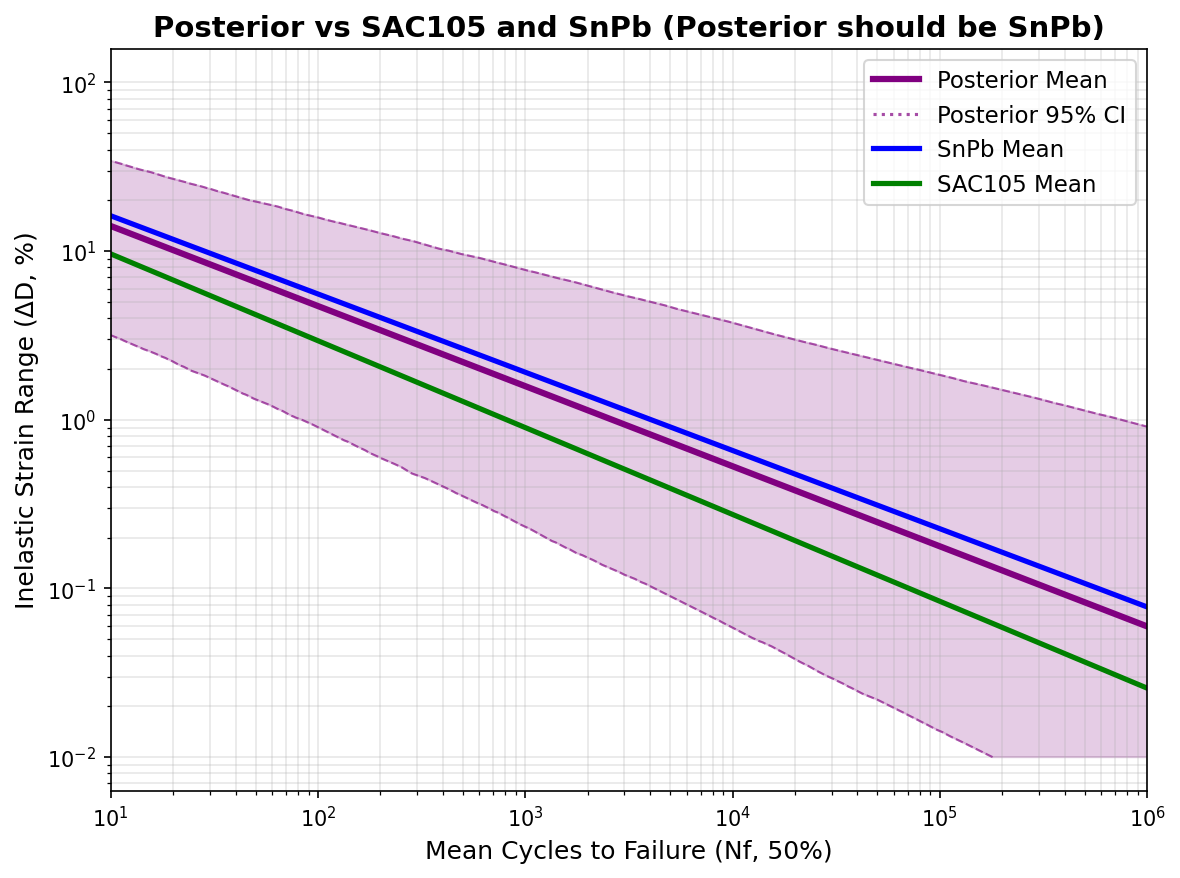
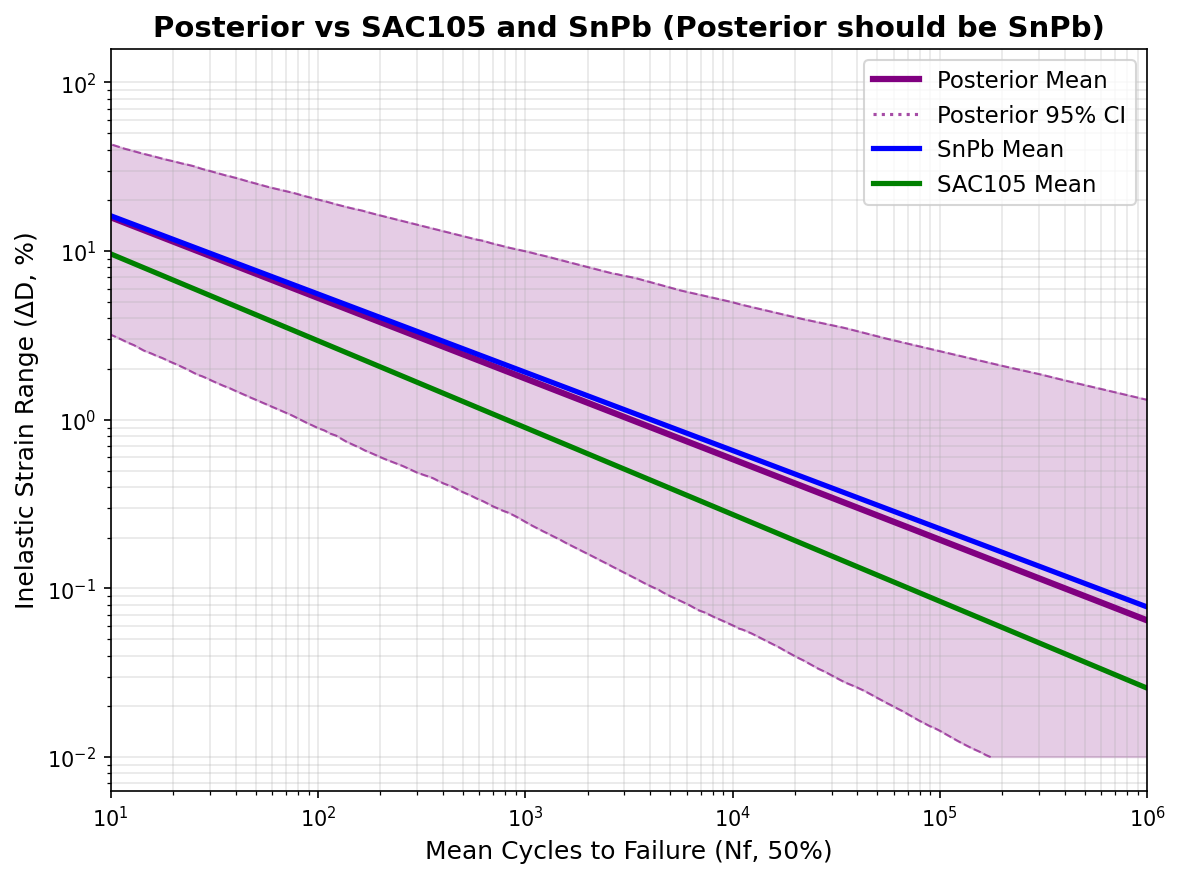
added more comments, cut out some unneeded clipping

diff --git a/demos/hybrid_bonding/thermomech.py b/demos/hybrid_bonding/thermomech.py
@@ -42,10 +42,8 @@ def hybrid_bonding_thermomech():
     ###########################################
 
     # Pairs of points [ % delta_D, Nf (means cycles to failure)]
-    # Tried to read of figure 10 from the paper but was guesstimating points
-    # delta_D_Nfdata = [[11, 10], [9, 10E2], [1.8,10E3], [0.6,10E4], [0.2,10E5], [0.07, 10E6]] #this was bad data
 
-    # Using data read of the SnPb plot I generated
+    # Using data read of the SnPb plot I generated (which matches fig 10 of paper)
     delta_D_Nfdata = [[0.16263, 10], [0.0581, 10E2], [0.01916,10E3], [0.00657,10E4], [0.00228,10E5], [0.00078, 10E6]]
 
     # Convert fabricated data to arrays
@@ -86,16 +84,21 @@ def hybrid_bonding_thermomech():
     print(f"  c_2:     loc={c_2_prior['loc']}, scale={c_2_prior['scale']}")
     print()
 
+    # caution: values are not clipped or restricted!
     def calc_engelmaier(e_f, c_0, c_1, c_2, t_0, T_sj, t_D, delta_D):
         m =  c_0 + c_1*T_sj + c_2*jnp.log(1 + t_0 / t_D) 
         N_f_50 = 0.5*jnp.power(2*e_f/delta_D, 1/m)
         return N_f_50
     
+    # needed to restrict values to prevent inf/nan from causing divergences
+    # want to constrain our variables to be in a reasonable range for them
     def calc_log_engelmaier(e_f, c_0, c_1, c_2, t_0, T_sj, t_D, delta_D):
-        e_f, delta_D = jnp.maximum(e_f, 0.001), jnp.maximum(delta_D, 1e-8)
-        m = jnp.maximum(c_0 + c_1*T_sj + c_2*jnp.log(1 + t_0/t_D), 0.1)
-        N_f = 0.5*jnp.power(jnp.maximum(2*e_f/delta_D, 1e-8), 1/m)
-        log_N_f = jnp.log(jnp.maximum(N_f, 1.0))
+        e_f, delta_D = jnp.maximum(e_f, 0.001), jnp.maximum(delta_D, 1e-8) # basically restricting to positive values (this realistically cannot be neg)
+        m = jnp.maximum(c_0 + c_1*T_sj + c_2*jnp.log(1 + t_0/t_D), 0.1) # normally m is around 0.5, should be solidly around there
+        # if i clip m at less that 0.1 this starts diverging a lot, i think a 0.1 clip is reasonable for this application
+        # if we want to produce reasonable results, I could also just clip each of the components of m
+        N_f = 0.5*jnp.power(jnp.maximum(2*e_f/delta_D, 1e-8), 1/m) # this is just to keep it positive
+        log_N_f = jnp.log(jnp.maximum(N_f, 1.0)) # prevent negative numbers
         return jnp.where(jnp.isfinite(log_N_f), log_N_f, jnp.log(1e8))
     
     mb = stratcona.SPMBuilder(mdl_name='hb_engelmaier')
@@ -113,9 +116,8 @@ def hybrid_bonding_thermomech():
     mb.add_latent('c_1', nom='c_1_nom')
     mb.add_latent('c_2', nom='c_2_nom')
     
+    # using a log since the range of Nf data is very large
     mb.add_intermediate('log_engelmaier_nf', calc_log_engelmaier)
-    #mb.add_intermediate('engelmaier_nf', calc_engelmaier)
-
 
     mb.add_observed(
         'nf_delta_D',
@@ -179,6 +181,7 @@ def hybrid_bonding_thermomech():
     #################################################################
     
     # Generate Nf predictions across delta_D range using posterior samples
+    # Recreating the sampling reproduce plot from Engelmaier paper for SnPb and SAC105 for comparison
     delta_D_range = jnp.logspace(-4, 0, 1000)
     T_sj = 50
     t_D = 600
@@ -204,6 +207,9 @@ def hybrid_bonding_thermomech():
     
     # Replace inf/nan with reasonable values for visualization
     Nf_hb_all = jnp.where(jnp.isfinite(Nf_hb_all), Nf_hb_all, 1e10)
+    # want to keep track of how many inf/nan values needed to be replaced to make sure sampling is ok
+    n_inf_replaced = jnp.sum(~jnp.isfinite(Nf_hb_all))
+    print(f"Number of inf/nan values replaced: {n_inf_replaced}")
     
     # Compute summary statistics
     def summarize(samples):
@@ -213,11 +219,6 @@ def hybrid_bonding_thermomech():
         return mean, lower, upper
     
     mean_hb, low_hb, high_hb = summarize(Nf_hb_all)
-    
-    # Replace remaining inf values
-    mean_hb = jnp.where(jnp.isfinite(mean_hb), mean_hb, 1e10)
-    low_hb = jnp.where(jnp.isfinite(low_hb), low_hb, 1e1)
-    high_hb = jnp.where(jnp.isfinite(high_hb), high_hb, 1e10)
     
     #################################################################
     # -------- COMPUTE MEAN PREDICTION FROM POSTERIOR MEANS ----------
@@ -230,6 +231,7 @@ def hybrid_bonding_thermomech():
     c_2_mean = float(am.relmdl.hyl_beliefs['c_2_nom']['loc'])
     
     # Calculate deterministic prediction using posterior means
+    # recall calc_engelmaier currently does not clip inf values
     mean_pred_hb = calc_engelmaier(
         e_f_mean, c_0_mean, c_1_mean, c_2_mean,
         t_0, T_sj, t_D, delta_D_range
@@ -247,7 +249,7 @@ def hybrid_bonding_thermomech():
     
     plt.figure(figsize=(8, 6))
     
-    # ---- Hybrid Bonding (posterior mean from distribution means) ----
+    # ---- Posterior Mean ----
     plt.plot(
         mean_pred_hb,
         100*delta_D_range,
@@ -256,7 +258,7 @@ def hybrid_bonding_thermomech():
         label="Posterior Mean"
     )
     
-    # ---- Hybrid Bonding (posterior ensemble) ----
+    # ---- Posterior CI ----
     plt.plot(
         mean_hb,
         100*delta_D_range,
@@ -279,6 +281,7 @@ def hybrid_bonding_thermomech():
     plt.plot(high_hb, 100*delta_D_range, color="purple", linestyle="--", linewidth=1, alpha=0.6)
     
     # ---- SnPb Mean (reference) ----
+    # these are the values that my posterior should find
     snpb_nom_vals = {
         "e_f": 0.325,
         "c_0": 0.442,
@@ -376,6 +379,8 @@ def hybrid_bonding_thermomech():
     }
     
     # Generate reference predictions
+    # for now, this isn't really needed since I am just graphing the mean that should be stable
+    # but I might want to use the prior vs posterior variance so this is set-up
     def sample_params(key, nom_dict, sigma_dict):
         keys = rand.split(key, len(nom_dict))
         sampled = {}
@@ -391,22 +396,18 @@ def hybrid_bonding_thermomech():
     Nf_sac105_all = []
     
     keys = rand.split(rng_key_ref, n_ref_samples)
-    
-    def calc_engelmaier_ref(e_f, c_0, c_1, c_2, t_0, T_sj, t_D, delta_D):
-        m = c_0 + c_1*T_sj + c_2*jnp.log(1 + t_0 / t_D)
-        N_f_50 = 0.5*(2*e_f/delta_D)**(1/m)
-        return N_f_50
+
     
     for i in range(n_ref_samples):
         p_snpb = sample_params(keys[i], snpb_nom, snpb_sigma)
         p_sac105 = sample_params(keys[i], sac105_nom, sac105_sigma)
         
-        Nf_snpb = calc_engelmaier_ref(
+        Nf_snpb = calc_engelmaier(
             p_snpb["e_f"], p_snpb["c_0"], p_snpb["c1"], p_snpb["c2"],
             p_snpb["t_0"], T_sj, t_D, delta_D_range
         )
         
-        Nf_sac105 = calc_engelmaier_ref(
+        Nf_sac105 = calc_engelmaier(
             p_sac105["e_f"], p_sac105["c_0"], p_sac105["c1"], p_sac105["c2"],
             p_sac105["t_0"], T_sj, t_D, delta_D_range
         )
@@ -422,7 +423,7 @@ def hybrid_bonding_thermomech():
     # -------- PLOT POSTERIOR DISTRIBUTIONS WITH PRIORS ---------------
     #################################################################
     
-    # Use the same prior parameters defined earlier for consistency
+    # Use the same prior parameters defined earlier
     prior_specs = {
         'e_f_nom': e_f_prior,
         'c_0_nom': c_0_prior,
